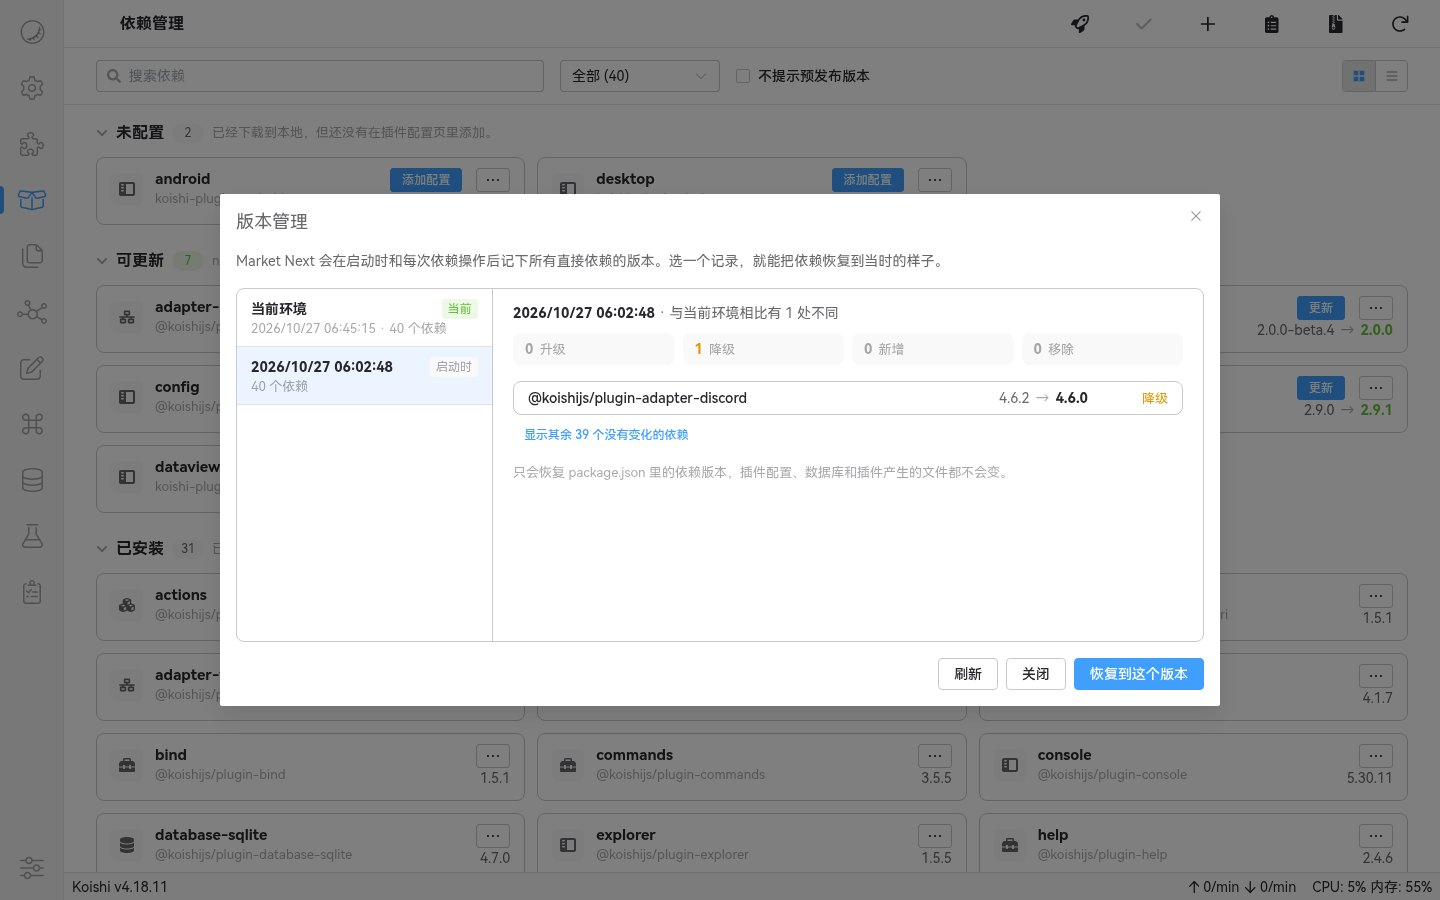
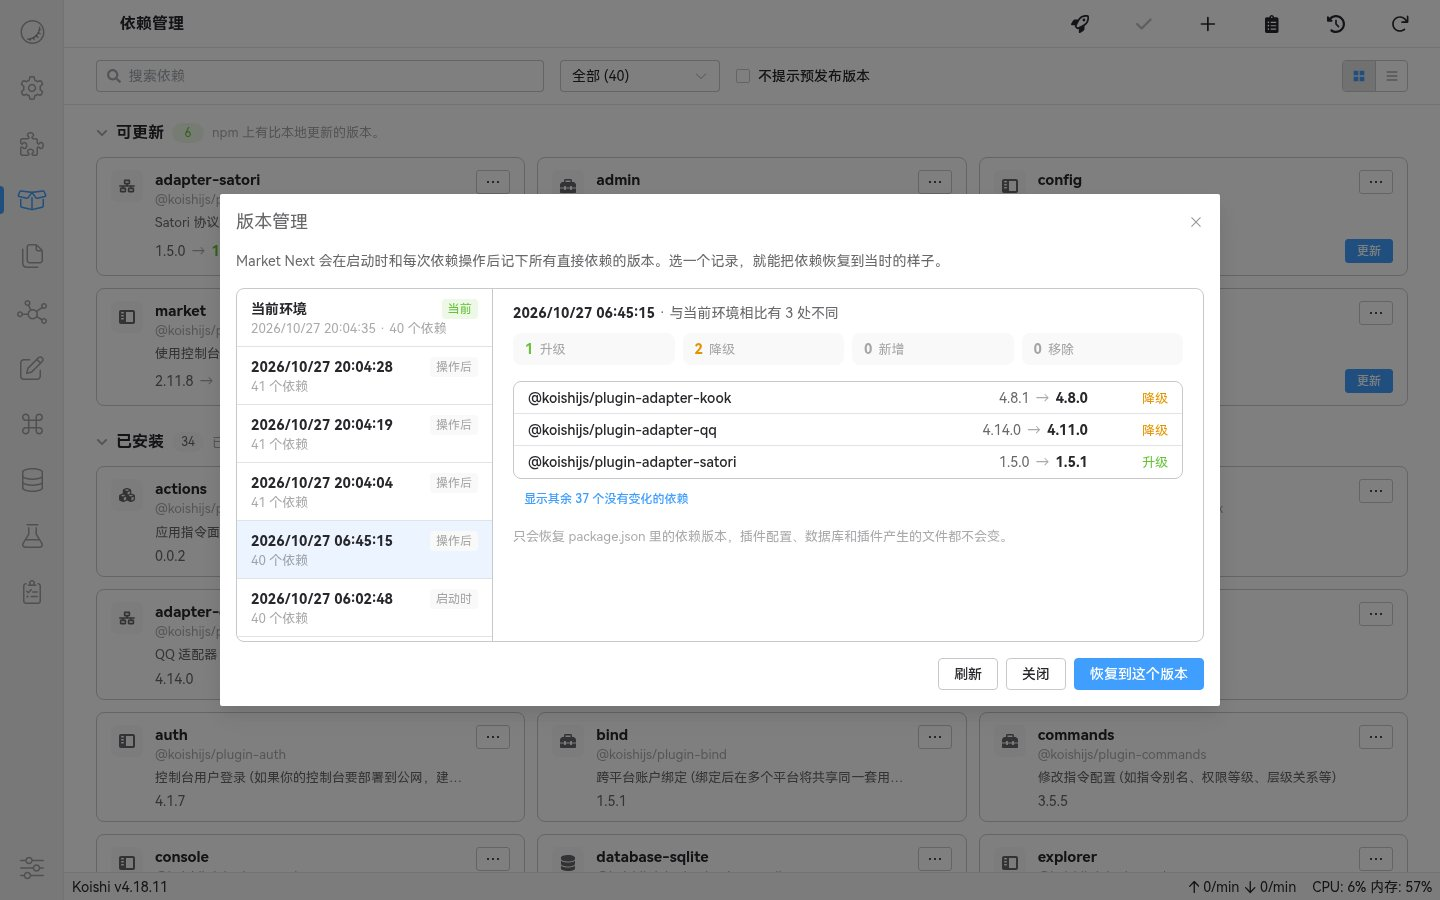
docs: 按当前界面重截 README 截图，新增切换版本和最近操作两张

diff --git a/README.md b/README.md
@@ -46,6 +46,20 @@
 <br>
 
 <div align="center">
+  <b>切换版本</b><br>
+  <img src="docs/images/version-picker.jpg" alt="依赖卡片上的版本选择器" />
+</div>
+
+<br>
+
+<div align="center">
+  <b>最近操作</b><br>
+  <img src="docs/images/install-history.jpg" alt="最近操作" />
+</div>
+
+<br>
+
+<div align="center">
   <b>版本管理</b><br>
   <img src="docs/images/environment-versions.jpg" alt="版本管理" />
 </div>
